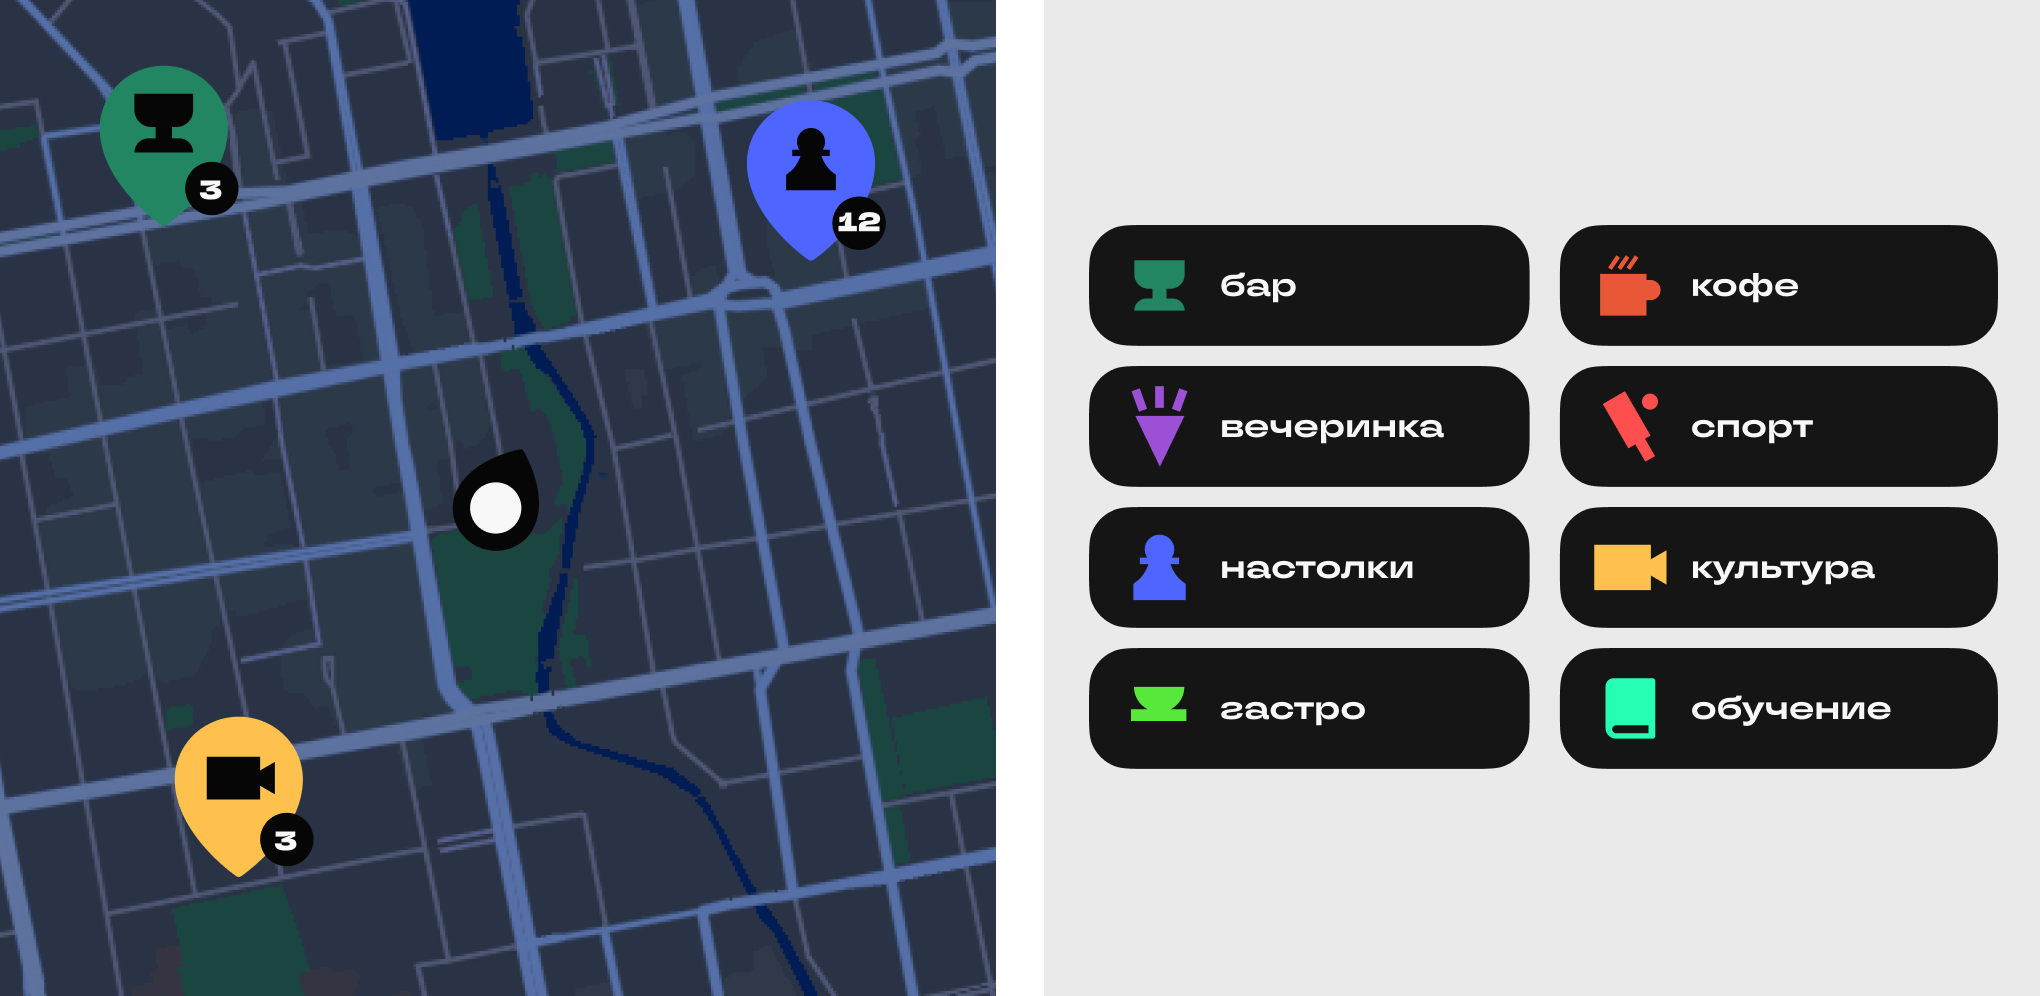
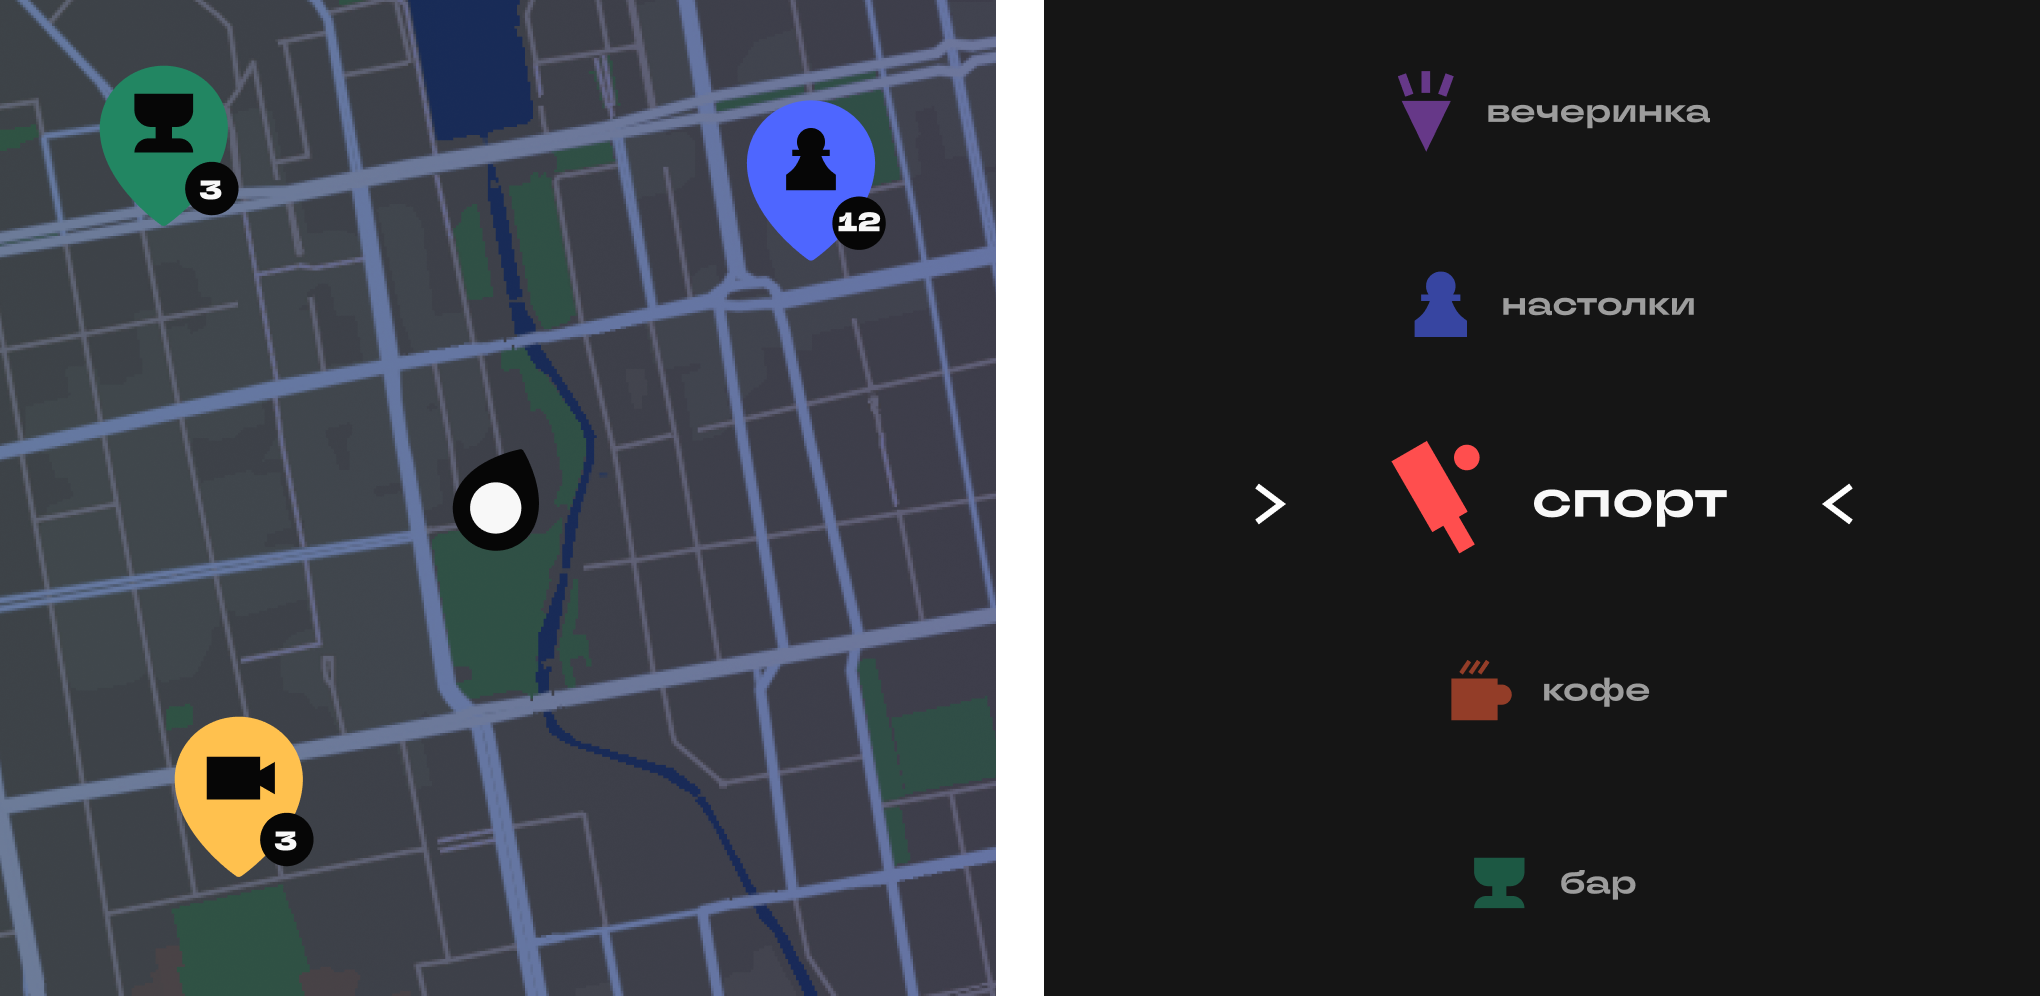
fix: update lori copy and dacha second mention image

diff --git a/index.html b/index.html
@@ -320,8 +320,8 @@
                     <p class="project-item__title project-card__title">Lori Mobile App↳</p>
                   </a>
                   <p class="project-card__description">
-                    С нуля разработал дизайн-концепцию приложения для трекинга калорий. Пользователи часто бросают привычку и удаляют
-                    подобные приложения. Я внедрил вовлекающую механику, достигнув месячного удержания 68%
+                    С нуля разработал дизайн и бренд-платформу приложения для трекинга калорий. Внедрил вовлекающую механику, достигнув
+                    месячного удержания 68%
                   </p>
                   <div class="project-card__role">
                     <p class="project-card__role-label">Роль</p>
@@ -358,8 +358,8 @@
                     <p class="project-item__title project-card__title">Lori Mobile App↳</p>
                   </a>
                   <p class="project-card__description">
-                    С нуля разработал дизайн-концепцию приложения для трекинга калорий. Пользователи часто бросают привычку и удаляют подобные
-                    приложения. Я внедрил вовлекающую механику, достигнув месячного удержания 68%
+                    С нуля разработал дизайн и бренд-платформу приложения для трекинга калорий. Внедрил вовлекающую механику, достигнув
+                    месячного удержания 68%
                   </p>
                 </div>
                 <div class="project-card__tags project-card__tags--triple">
@@ -399,7 +399,7 @@
                   <img class="mentions__shot" src="./assets/images/home/mentions-figma/dacha-row-1.png?v=20260412-mentions-hq-3" alt="Дача — превью 1" loading="lazy" decoding="async" />
                 </div>
                 <div class="mentions__shot-link">
-                  <img class="mentions__shot" src="./assets/images/home/mentions-figma/dacha-row-2.png?v=20260412-mentions-hq-3" alt="Дача — превью 2" loading="lazy" decoding="async" />
+                  <img class="mentions__shot" src="./assets/images/home/mentions-figma/dacha-row-2.png?v=20260412-mentions-hq-4" alt="Дача — превью 2" loading="lazy" decoding="async" />
                 </div>
                 <div class="mentions__shot-link">
                   <img class="mentions__shot" src="./assets/images/home/mentions-figma/dacha-row-3.png?v=20260412-mentions-hq-3" alt="Дача — превью 3" loading="lazy" decoding="async" />
